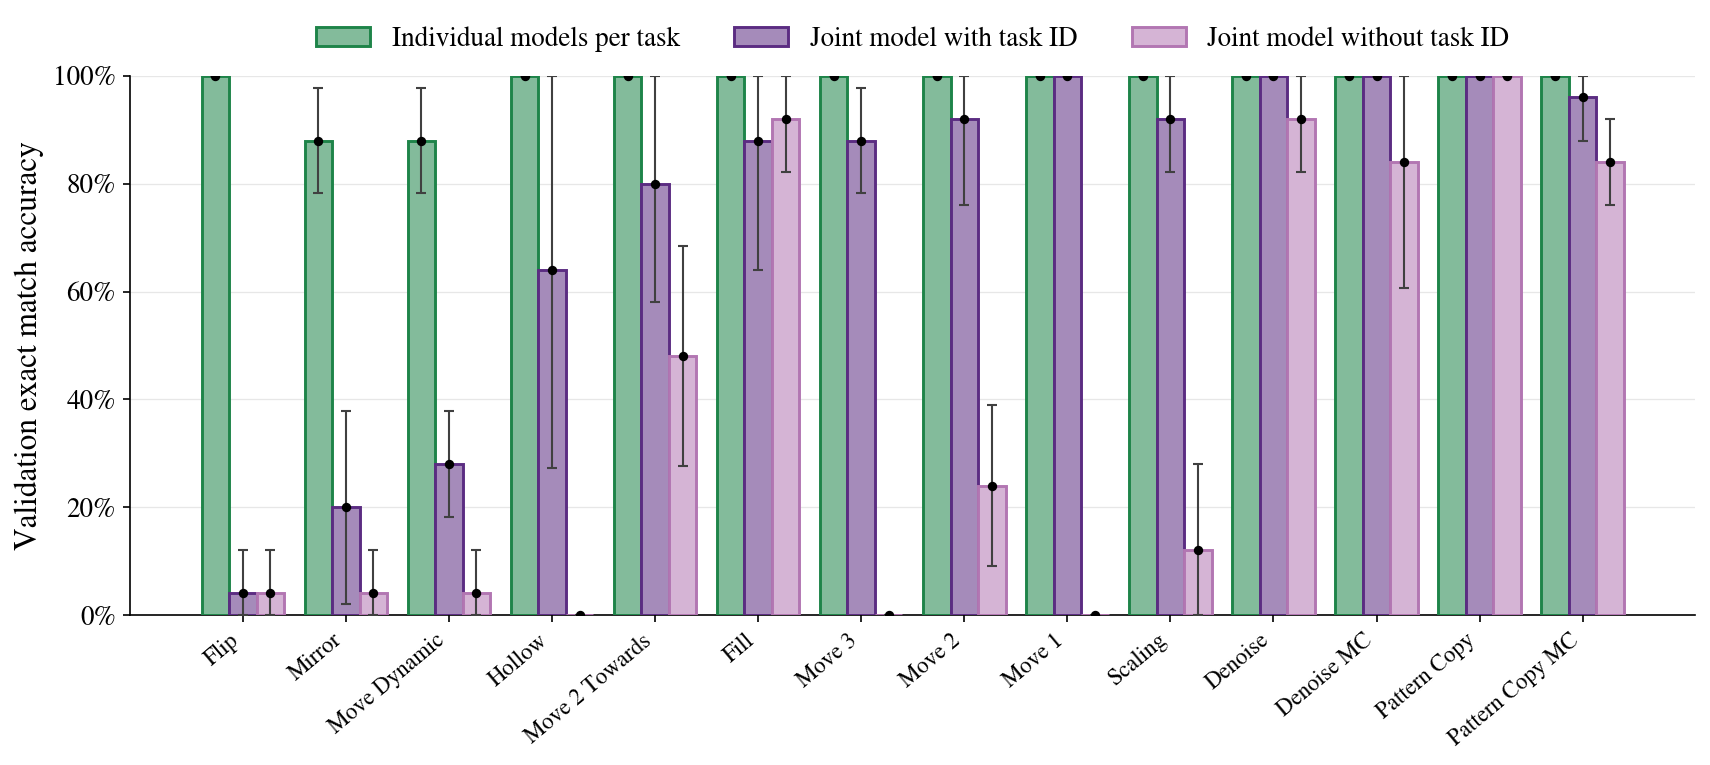
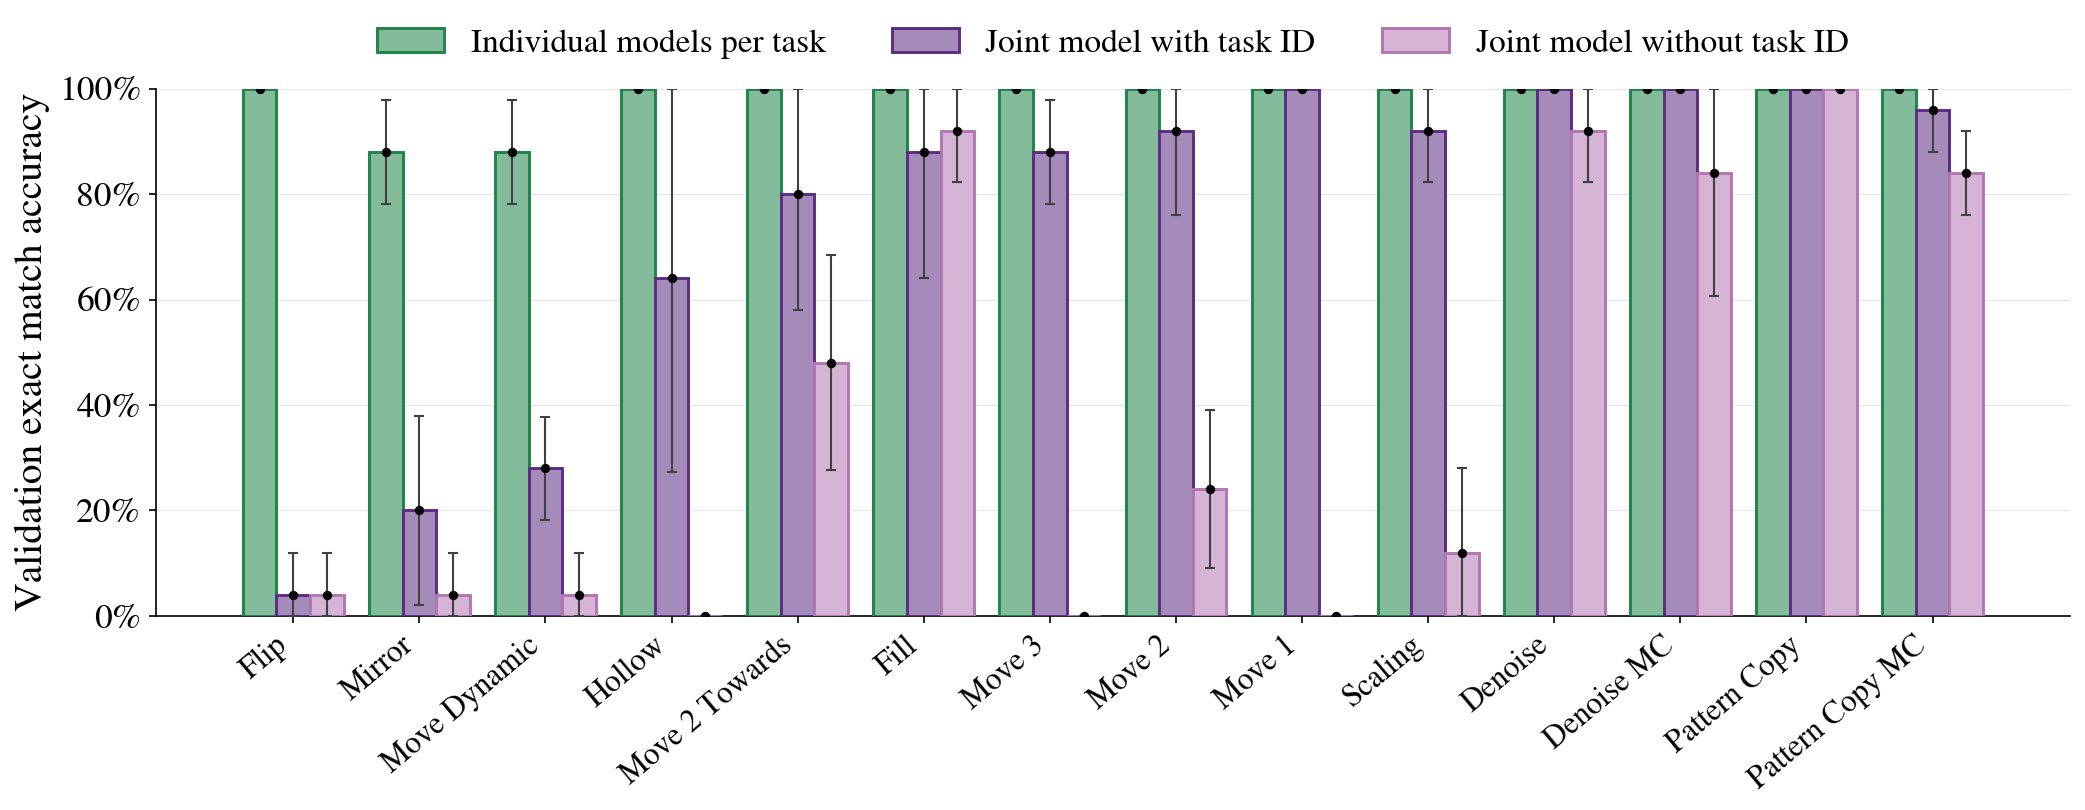
Resize both plots for a single-column paper: larger labels throughout
capacity_cliff.png: square (5.8x5.8), axis/tick/legend fonts bumped further
(15/13/13 -> 19/17/16).
per_task_dim6.png: wider (14.0x5.5) to give 14 task groups room, fonts
bumped to match (15/11-13 -> 19/15-17).

diff --git a/configs/experiments/arc1d_v2_multitask/plot_per_task.py b/configs/experiments/arc1d_v2_multitask/plot_per_task.py
@@ -212,10 +212,10 @@ def plot(series: dict[str, dict[str, dict]], dim: str, out_path: Path) -> None:
         {
             "font.serif": ["Nimbus Roman", "Times New Roman", "Liberation Serif", "DejaVu Serif"],
             "mathtext.fontset": "stix",
-            "axes.labelsize": 15,
-            "xtick.labelsize": 11,
-            "ytick.labelsize": 13,
-            "legend.fontsize": 13,
+            "axes.labelsize": 19,
+            "xtick.labelsize": 15,
+            "ytick.labelsize": 17,
+            "legend.fontsize": 16,
         }
     )
 
@@ -230,7 +230,9 @@ def plot(series: dict[str, dict[str, dict]], dim: str, out_path: Path) -> None:
     bar_w = 0.8 / n_cond
     x = np.arange(n_tasks)
 
-    fig, ax = plt.subplots(figsize=(11.5, 5.2))
+    # Wider than tall -- single-column paper figure, but 14 task groups need
+    # the horizontal room.
+    fig, ax = plt.subplots(figsize=(14.0, 5.5))
 
     for i, cond in enumerate(conditions):
         offset = (i - (n_cond - 1) / 2) * bar_w

diff --git a/configs/experiments/arc1d_v2_multitask/plot_capacity_cliff.py b/configs/experiments/arc1d_v2_multitask/plot_capacity_cliff.py
@@ -199,13 +199,14 @@ def plot(series: dict[str, dict[str, dict]], out_path: Path) -> None:
         {
             "font.serif": ["Nimbus Roman", "Times New Roman", "Liberation Serif", "DejaVu Serif"],
             "mathtext.fontset": "stix",
-            "axes.labelsize": 15,
-            "xtick.labelsize": 13,
-            "ytick.labelsize": 13,
-            "legend.fontsize": 13,
+            "axes.labelsize": 19,
+            "xtick.labelsize": 17,
+            "ytick.labelsize": 17,
+            "legend.fontsize": 16,
         }
     )
-    fig, ax = plt.subplots(figsize=(7.2, 5.0))
+    # Square, sized for a single-column paper figure.
+    fig, ax = plt.subplots(figsize=(5.8, 5.8))
 
     dims_sorted = sorted(DIM_PARAMS, key=lambda d: DIM_PARAMS[d])
 
